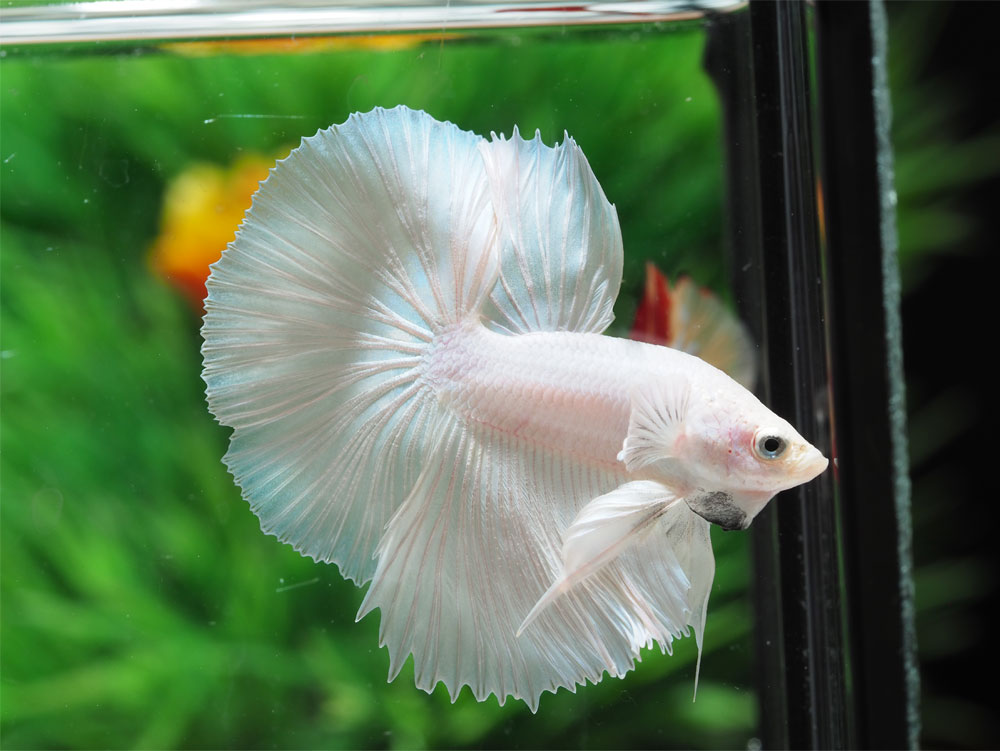
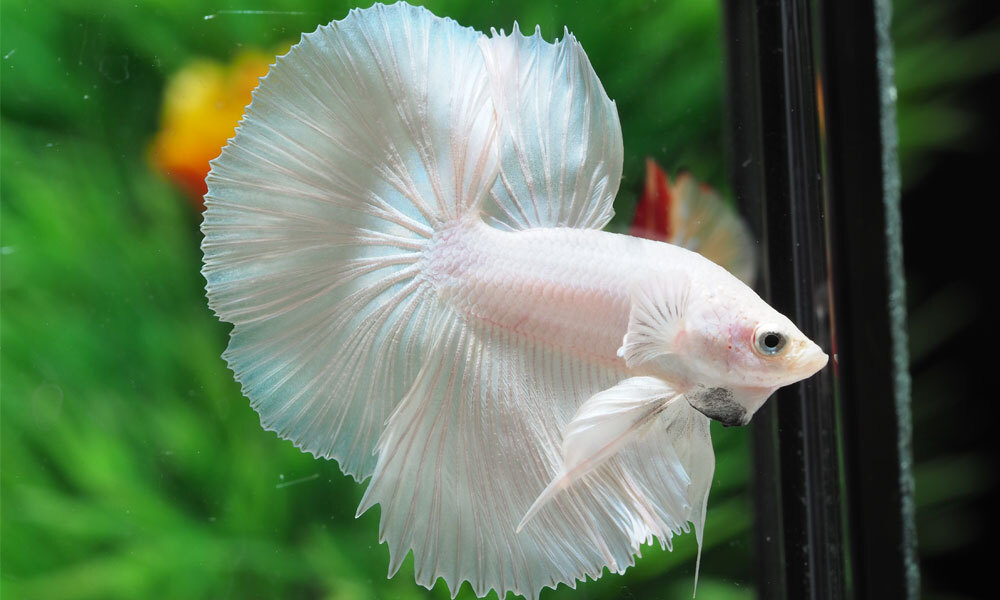
Fix carousel
Fix carousel to max-height and fix resolution of picture in carousel

diff --git a/product.html b/product.html
@@ -1,11 +1,72 @@
-<!DOCTYPE html>
+<!doctype html>
 <html lang="en">
+
 <head>
-    <meta charset="UTF-8">
-    <meta name="viewport" content="width=device-width, initial-scale=1.0">
-    <title>Product</title>
+    <meta charset="utf-8">
+    <meta name="viewport" content="width=device-width, initial-scale=1">
+    <title>Earth Betta</title>
+    <link rel="stylesheet" href="styles.css">
+    <link rel="icon" type="image/x-icon" href="/images/icon-title.png">
+    <link href="https://cdn.jsdelivr.net/npm/bootstrap@5.3.2/dist/css/bootstrap.min.css" rel="stylesheet"
+        integrity="sha384-T3c6CoIi6uLrA9TneNEoa7RxnatzjcDSCmG1MXxSR1GAsXEV/Dwwykc2MPK8M2HN" crossorigin="anonymous">
 </head>
+
 <body>
+
+    <div class="container-fluid bg-primary">
+        <p style="color: white;">tel. 094-875-1245</p>
+    </div>
+    <nav class="navbar navbar-expand-lg bg-body-tertiary">
+        <div class="container-fluid">
+            <a class="navbar-brand" href="#">
+                <img src="images/icon-title.png" alt="logo" width="80" height="80">
+            </a>
+            <button class="navbar-toggler" type="button" data-bs-toggle="collapse"
+                data-bs-target="#navbarSupportedContent" aria-controls="navbarSupportedContent" aria-expanded="false"
+                aria-label="Toggle navigation">
+                <span class="navbar-toggler-icon"></span>
+            </button>
+            <div class="collapse navbar-collapse" id="navbarSupportedContent">
+                <ul class="navbar-nav me-auto mb-2 mb-lg-0">
+                    <li class="nav-item">
+                        <a class="nav-link active" aria-current="page" href="index.html">Home</a>
+                    </li>
+                    <li class="nav-item dropdown">
+                        <a class="nav-link dropdown-toggle" href="#" role="button" data-bs-toggle="dropdown"
+                            aria-expanded="false">
+                            Product
+                        </a>
+                        <ul class="dropdown-menu">
+                            <li><a class="dropdown-item" href="#">Half Moon</a></li>
+                            <li><a class="dropdown-item" href="#">PK</a></li>
+                            <li>
+                                <hr class="dropdown-divider">
+                            </li>
+                            <li><a class="dropdown-item" href="#">All Product</a></li>
+                        </ul>
+                    </li>
+                    <li class="nav-item">
+                        <a class="nav-link">About</a>
+                    </li>
+                </ul>
+                <form class="d-flex" role="search">
+                    <input class="form-control me-2" type="search" placeholder="Search" aria-label="Search">
+                    <button class="btn btn-outline-primary" type="submit">Search</button>
+                </form>
+                <ul class="navbar-nav  mb-2 mb-lg-0">
+                    <li class="nav-item">
+                        <a class="nav-link ms-2" href="cart.html" target="_blank">
+                            <svg xmlns="http://www.w3.org/2000/svg" width="40" height="40" fill="currentColor"
+                                class="bi bi-cart3" viewBox="0 0 16 16">
+                                <path
+                                    d="M0 1.5A.5.5 0 0 1 .5 1H2a.5.5 0 0 1 .485.379L2.89 3H14.5a.5.5 0 0 1 .49.598l-1 5a.5.5 0 0 1-.465.401l-9.397.472L4.415 11H13a.5.5 0 0 1 0 1H4a.5.5 0 0 1-.491-.408L2.01 3.607 1.61 2H.5a.5.5 0 0 1-.5-.5M3.102 4l.84 4.479 9.144-.459L13.89 4H3.102zM5 12a2 2 0 1 0 0 4 2 2 0 0 0 0-4m7 0a2 2 0 1 0 0 4 2 2 0 0 0 0-4m-7 1a1 1 0 1 1 0 2 1 1 0 0 1 0-2m7 0a1 1 0 1 1 0 2 1 1 0 0 1 0-2" />
+                            </svg>
+                        </a>
+                    </li>
+                </ul>
+            </div>
+        </div>
+    </nav>
     
-</body>
+    <script src="https://cdn.jsdelivr.net/npm/bootstrap@5.3.2/dist/js/bootstrap.bundle.min.js"></script>
 </html>

diff --git a/styles.css b/styles.css
@@ -1,21 +1,12 @@
 .header__nav--bg {
     background-color: #004AAD;
 }
-/*.carousel-item {
-    height: 700px;  กำหนดความสูงตามที่คุณต้องการ 
-}
 
-/* ทำให้ภาพปรับให้เต็มบล็อกและอยู่กึ่งกลาง 
-.carousel-item img {
-    object-fit: cover;
-    object-position: center;
-    height: 100%;
-    width: 100%;
-}*/
 .carousel-item {
-    height: 700px;  /* กำหนดความสูงคงที่ */
+    max-height: 900px;  /* กำหนดความสูงคงที่ */
     position: relative;  /* เพื่อให้ภาพอยู่ในกรอบ */
     overflow: hidden;    /* ทำให้ภาพไม่ล้นออกจากกรอบ */
+    
 }
 
 /* ทำให้ภาพเต็มบล็อกในขนาดปกติ */
@@ -68,7 +59,7 @@
     background-color: #003C8B; /* สีที่เข้มขึ้นเมื่อ hover */
     border-color: #003C8B;
   }
-  
+
 /* Center single column items on small screens */
 @media (max-width: 575px) {
     .col-12 {

diff --git a/index.html b/index.html
@@ -32,7 +32,7 @@
                         <a class="nav-link active" aria-current="page" href="index.html">Home</a>
                     </li>
                     <li class="nav-item dropdown">
-                        <a class="nav-link dropdown-toggle" href="#" role="button" data-bs-toggle="dropdown"
+                        <a class="nav-link dropdown-toggle" href="/product.html" role="button" data-bs-toggle="dropdown"
                             aria-expanded="false">
                             Product
                         </a>
